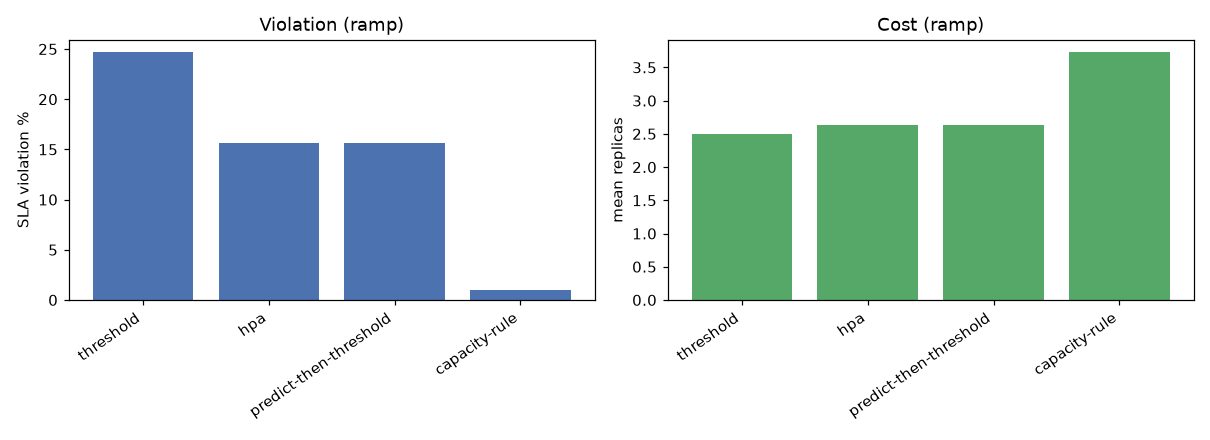
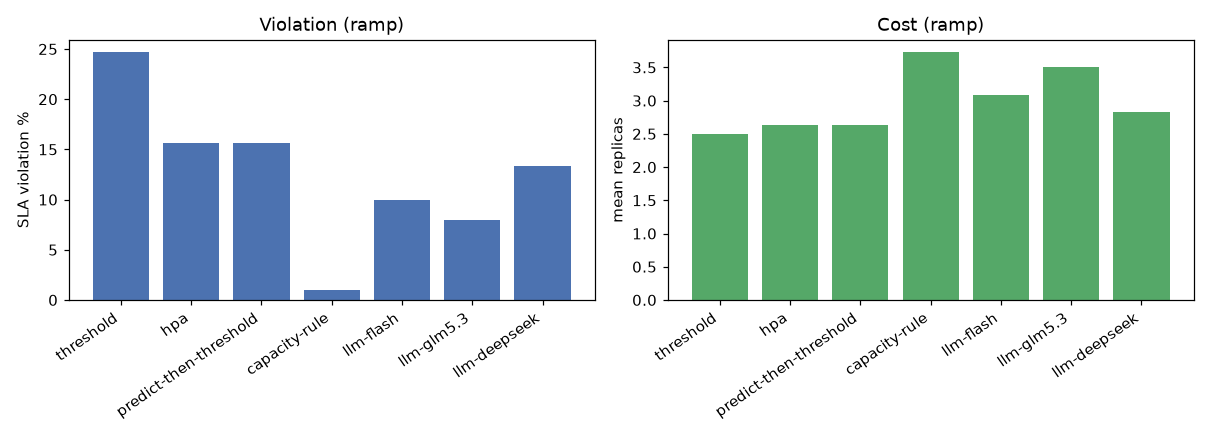
feat: full closed-loop LLM benchmark + 429 retry hardening
- run_llm_benchmark: 3 models x ramp/steady/spike, tool-calling (750 decisions)
- llm_compiler._post: retry 6x with 60s backoff (was no retry on 429/timeout)
- run_llm_benchmark: 5s spacing between decisions to stay under rate limit
- regenerated analysis_results.pdf + benchmark/llm.png with LLM rows
- README: real LLM results table

diff --git a/src/llm_compiler.py b/src/llm_compiler.py
@@ -116,7 +116,7 @@ SYSTEM_TOOL = (
 )
 
 
-def _post(messages, tools=None, base=None, key=None, model=None):
+def _post(messages, tools=None, base=None, key=None, model=None, retries=6):
     body = {"model": model, "messages": messages, "temperature": 0.0}
     if tools:
         body["tools"] = tools
@@ -125,9 +125,16 @@ def _post(messages, tools=None, base=None, key=None, model=None):
     if key:
         headers["Authorization"] = f"Bearer {key}"
     url = (base or "http://localhost:11434/v1").rstrip("/") + "/chat/completions"
-    req = urllib.request.Request(url, data=json.dumps(body).encode(), headers=headers)
-    with urllib.request.urlopen(req, timeout=180) as r:
-        return json.loads(r.read().decode())
+    for attempt in range(retries):
+        try:
+            req = urllib.request.Request(url, data=json.dumps(body).encode(), headers=headers)
+            with urllib.request.urlopen(req, timeout=180) as r:
+                return json.loads(r.read().decode())
+        except (urllib.error.URLError, TimeoutError, OSError):
+            if attempt < retries - 1:
+                time.sleep(60 * (attempt + 1))
+                continue
+            raise
 
 
 def call_llm_with_tools(model, payload, cfgs, tool_names,

diff --git a/src/run_llm_benchmark.py b/src/run_llm_benchmark.py
@@ -65,6 +65,7 @@ def main():
                     dt = time.time() - t0
                     print(f"  {scen}|{label} step {count['n']}/{len(sstates)} "
                           f"({dt:.0f}s, {dt/count['n']:.1f}s/step)", flush=True)
+                time.sleep(5)  # space out POSTs to stay under rate limits
                 return r["actions"]
 
             out = bench.run_method(sstates, cfgs, decide)

diff --git a/README.md b/README.md
@@ -26,30 +26,38 @@ Source: `docs/architecture.puml`.
 
 One dataset only. AdapShare (temporal load) and DeepSlice (slice classifier) optional, excluded. OpenRAN too large.
 
-## Results (ramp, 100 states, per-slice closed loop)
+## Results (per-slice closed loop)
+
+Ramp, 100 states (steady and spike in `analysis_results.pdf`):
 
 ```
 method                  viol%  repl  under  over   mae
 threshold                24.7  2.50   1.11  0.11  0.49
 hpa                      15.7  2.63   0.95  0.08  0.00
 predict-then-threshold   15.7  2.63   0.95  0.08  0.00
-capacity-rule            1.0  3.73   0.16  0.38  1.10
-llm-real-flash            7.7  3.93   0.53  0.96  1.48
+capacity-rule             1.0  3.73   0.16  0.38  1.10
+llm-flash                10.0  3.09   0.74  0.33  0.47
+llm-glm5.3                8.0  3.50   0.57  0.57  0.87
+llm-deepseek             13.3  2.83   0.86  0.19  0.21
 ```
 
-- Real LLM beats threshold and HPA on violation, at higher replica cost.
-- capacity-rule shares the oracle's capacity model (`required_replicas`), so it is a
-  near-optimal upper-bound reference, not a competitor to beat. Intentionally
-  close to the solution — it shows the ceiling the model allows.
+`llm-*` = Ollama cloud LLM acting through MCP tools
+(inspect_infrastructure + scale_replicas), same closed loop, 3 models.
+
+- capacity-rule shares the oracle's capacity model, so it is a near-optimal
+  upper-bound reference, not a competitor to beat.
+- The tool-calling LLM beats threshold/hpa on violation but trails capacity-rule;
+  per-model bias varies (flash over-provisions, deepseek under-provisions).
 
 ## LLM models (Ollama cloud, localhost, no token)
 
-| Model | mean latency | notes |
-|-------|-------------|-------|
-| glm-5.3-flash:cloud | 4.4 s | fast; ran the full 100-step loop |
-| deepseek-v4-pro:cloud | 7.1 s | |
-| glm-5.3:cloud | 8.4 s | |
-| mistral-large-4:cloud | 22.7 s | ~2x tokens, same decisions |
+| Model | mean latency | tokens | notes |
+|-------|-------------|--------|-------|
+| glm-5.3-flash:cloud | 2.8 s | 1.2k | fast |
+| glm-5.3:cloud | 4.6 s | 1.3k | |
+| deepseek-v4-pro:cloud | 7.2 s | 1.7k | |
+
+mistral-large-4:cloud excluded — ~3x slower, ~2x tokens, same decisions.
 
 ## Repo layout
 
@@ -57,7 +65,8 @@ llm-real-flash            7.7  3.93   0.53  0.96  1.48
 src/            # prototype (env, capacity, oracle, gate, mcp_server, llm, benchmark, experiment, report)
 tests/          # pytest, 8 passing
 results/        # experiment_results.json + graphs
-initial_results.pdf
+analysis_results.pdf
+docs/           # findings, paper-writing guide, PDFs v1/v2, diagrams
 PLAN.md         # full plan + findings (section 15)
 timeline.md     # pipeline steps
 ```
@@ -66,12 +75,12 @@ timeline.md     # pipeline steps
 
 ```
 python -m pytest tests -q
-python -m src.experiment          # benchmarks + 4-model LLM calls -> results JSON
-python -m src.run_real_full       # real LLM over full 100-step ramp
-python -m src.report              # build initial_results.pdf
+python -m src.experiment          # baselines + single-shot LLM -> results JSON
+python -m src.run_llm_benchmark   # closed-loop tool-calling LLM, all scenarios
+python -m src.report_analysis     # build analysis_results.pdf
 python -m src.mcp_server          # serve MCP over stdio
 ```
 
 ## Status
 
-End to end done. RQ5 answered: `estimate_capacity` tool cuts MAE 1.18->0.20 and cost 3.47->2.55 but raises violation 6.7%->11.7% (exact, not safer). Centerpiece (Mode T / Mode D / YAML-vs-MCP) still open — see `initial_results.pdf` and PLAN.md §15.
+End to end done. RQ5 answered: `estimate_capacity` tool cuts MAE 1.22->0.22 and cost 3.53->2.57 but raises violation 3.3%->10.0% (exact, not safer); `inspect_infrastructure` is the preferred tool. See `analysis_results.pdf` and PLAN.md §15.
